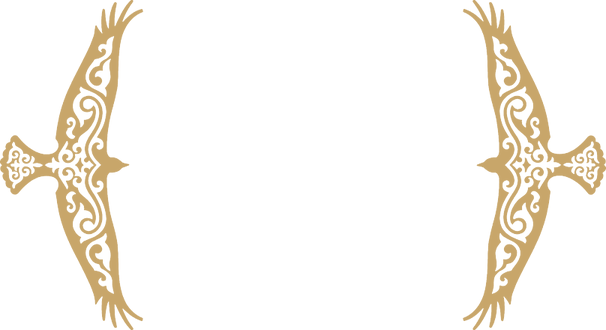
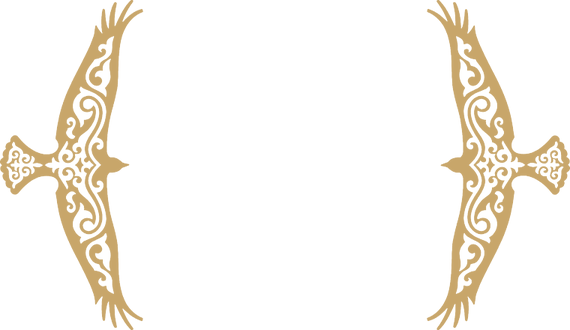
Беркуты ещё ближе к QR
Claude-Session: https://claude.ai/code/session_01LKLLUYmWVCSWzeK83uVA7d

Changed region(s): [[0.7456, 0.0, 1.0, 1.0], [0.0, 0.0, 0.2684, 1.0]]

diff --git a/index.html b/index.html
@@ -89,7 +89,7 @@ body{letter-spacing:-.015em}
 .totop.show{opacity:1;transform:none;pointer-events:auto}
 .totop svg{width:22px;height:22px}
 .totop:focus-visible{outline:2px solid var(--gold);outline-offset:3px}
-.qrwrap{position:relative;z-index:11;width:202px;height:110px;margin:18px auto 0}
+.qrwrap{position:relative;z-index:11;width:190px;height:110px;margin:18px auto 0}
 .eagles img{width:100%;height:100%;display:block}
 </style>
 <div class="wrap">
@@ -117,7 +117,7 @@ body{letter-spacing:-.015em}
 </svg>
 </div>
   <div class="tag" id="tag"></div>
-  <div class="qrwrap"><picture class="eagles" aria-hidden="true"><source srcset="eagles-dark.png" media="(prefers-color-scheme: dark)"><img src="eagles.png" width="202" height="110" alt=""></picture><picture class="qr"><source srcset="qr-dark.png" media="(prefers-color-scheme: dark)"><img src="qr.png" width="92" height="92" alt="QR-код меню TAL"></picture></div>
+  <div class="qrwrap"><picture class="eagles" aria-hidden="true"><source srcset="eagles-dark.png" media="(prefers-color-scheme: dark)"><img src="eagles.png" width="190" height="110" alt=""></picture><picture class="qr"><source srcset="qr-dark.png" media="(prefers-color-scheme: dark)"><img src="qr.png" width="92" height="92" alt="QR-код меню TAL"></picture></div>
 </header>
 <div class="bar">
   <div class="lang" role="group" aria-label="Тіл / Язык">
